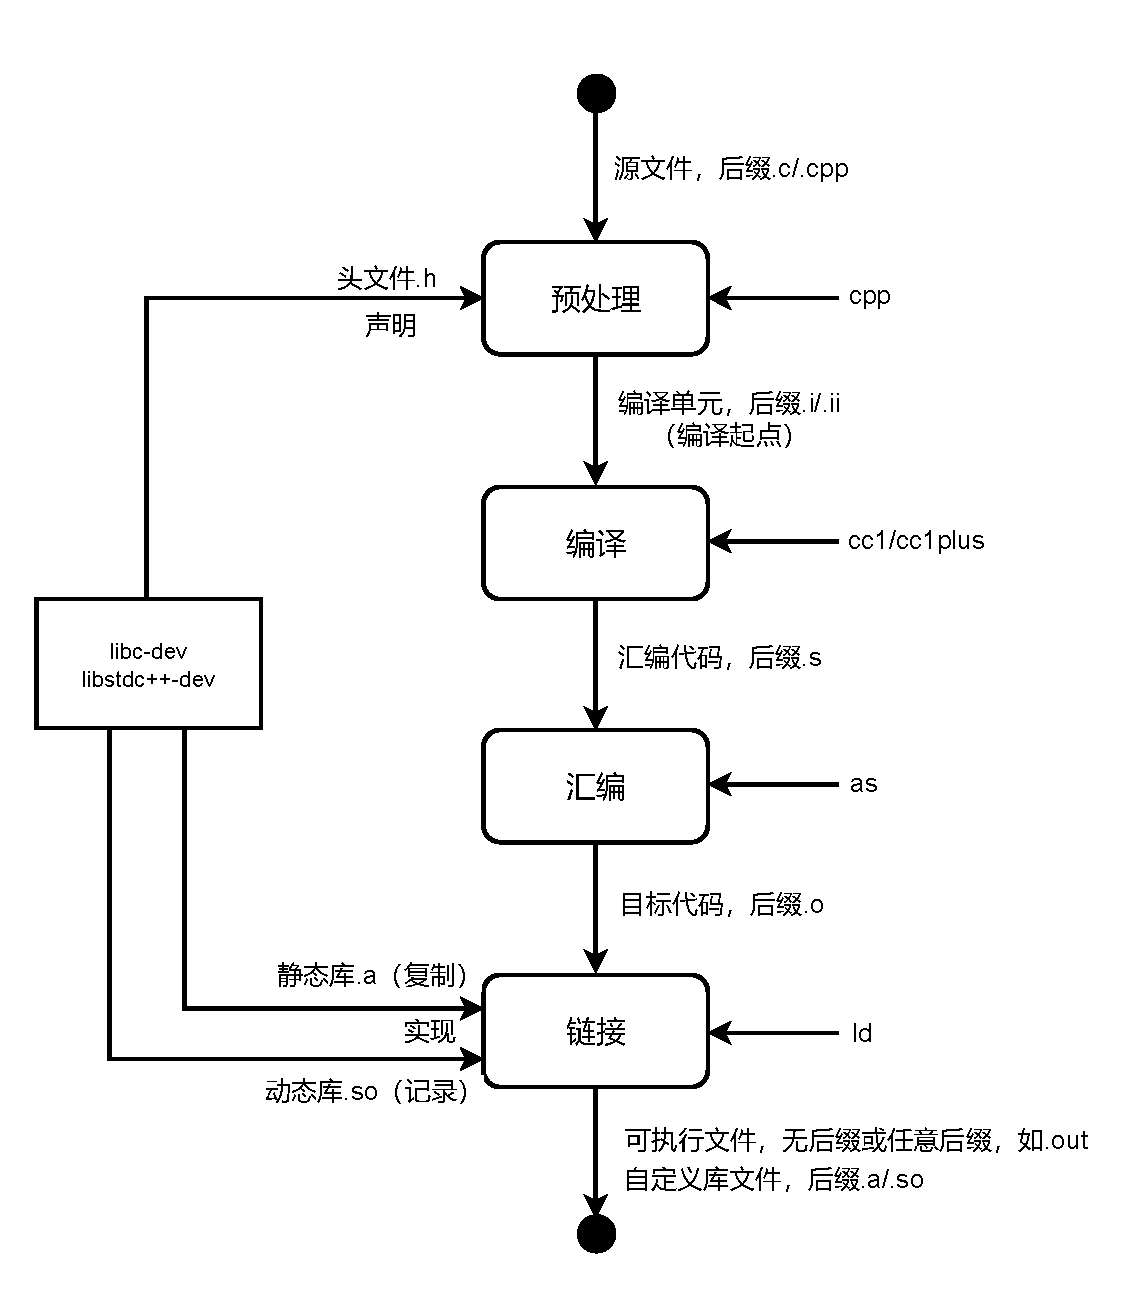
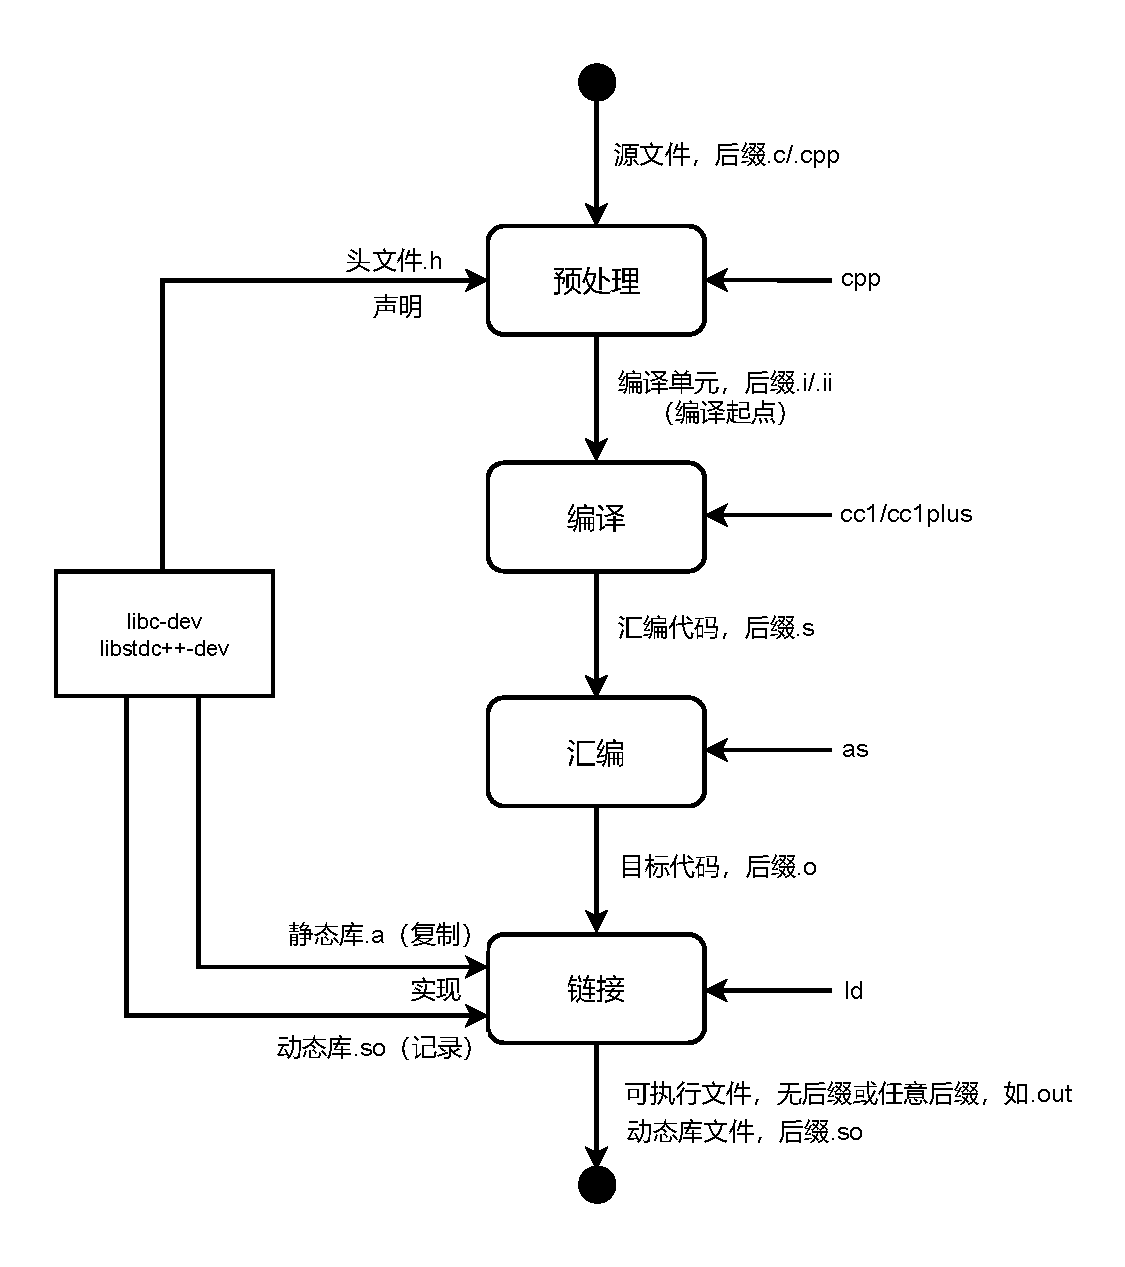
post

Changed region(s): [[0.0311, 0.0308, 0.9644, 0.9542]]

diff --git a/_posts/2025-01-07-c-cpp-compile.md b/_posts/2025-01-07-c-cpp-compile.md
@@ -50,24 +50,23 @@ sudo apt install build-essential gdb cmake
 #### 阶段2：编译（Compile）
 
 *   **核心任务**：将预处理后的高级语言代码（C/C++）翻译成与特定处理器架构相关的**汇编语言**。
-*   **过程**：包括词法分析、语法分析、语义分析、中间代码生成和优化等一系列复杂操作。
+*   **过程**：包括词法分析、语法分析、语义分析、中间代码生成和优化等一系列复杂操作，编译阶段可进一步分为前端、中端和后端。
 *   **阶段输出**：`.s` 文件（汇编代码文件）。
 
 #### 阶段3：汇编（Assemble）
 
-*   **核心任务**：将人类可读的汇编代码（`.s`）逐条翻译成机器可以识别的**二进制指令**，并打包成目标文件格式。
+*   **核心任务**：将人类可读的汇编代码（`.s`）逐条翻译成机器可以识别的**二进制指令**，并打包成目标文件格式（生成文件头、符号表、可重定位条目、节头表等）。
 *   **阶段输出**：`.o` 文件（目标文件，Object File）。多个相关的目标文件可以被打包成**库（Library）**。
 
 #### 阶段4：链接（Link）
 
-*   **核心任务**：将多个目标文件（`.o`）和所需的库文件拼接在一起，解决它们之间的相互引用（如调用其他文件中的函数），合并成一个完整的、可被操作系统加载执行的文件。
+*   **核心任务**：将多个目标文件（`.o`）和所需的库文件拼接在一起，合并成一个可加载执行的文件。
 *   **关键步骤**：
+    *   **符号解析**：将每个符号（函数名、变量名）的引用和一个符号定义对应起来，进行符号判决，处理强弱符号
+    *   **重定位**：将不同目标文件中相同节进行合并，确定每个符号的最终内存地址，并修正代码节和数据节中对这些符号的引用
+*   **最终输出**：可执行文件或者动态库文件。值得注意的是，链接分为**静态链接**（库代码被复制到可执行文件中）和**动态链接**（库代码在加载/运行时才被载入内存），在构建可执行文件/动态库的过程中，只使用了静态链接器ld，动态链接器在程序加载和运行阶段才会进行动态链接。静态库不由静态链接器ld生成，而是由静态库制作工具ar生成的。
 
-    *   **地址与空间分配**：为所有代码和数据段分配最终的内存地址。
-    *   **符号解析与重定位**：确定每个符号（函数名、变量名）的最终地址，并修正代码中对这些地址的引用。
-*   **最终输出**：可执行文件（如 `a.out` 或指定的文件名）。链接分为**静态链接**（库代码被复制到可执行文件中）和**动态链接**（库代码在运行时才被载入内存）。
-
-> **注意**：我们通常调用的 `gcc` 或 `g++` 命令，实际上是一个 **“编译器驱动程序（Compiler Driver）”**。它本身并不执行具体的编译工作，而是像一个总指挥，根据我们的需求（和命令行参数）去调度后端的各个专业工具完成上述阶段。这解释了为什么我们可以用 `gcc` 的选项来精确控制停在某个阶段。
+> **注意**：我们通常调用的 `gcc` 或 `g++` 命令，实际上是一个 **“编译器驱动程序（Compiler Driver）”**。它本身并不执行具体的编译工作，而是根据我们的需求（和命令行参数）去调度后端的各个专业工具完成上述阶段。另外，我们可以用 `gcc` 的选项来精确控制停在某个阶段。
 
 | 选项   | 作用                   | 示例                         |
 | :--- | :------------------- | :------------------------- |
